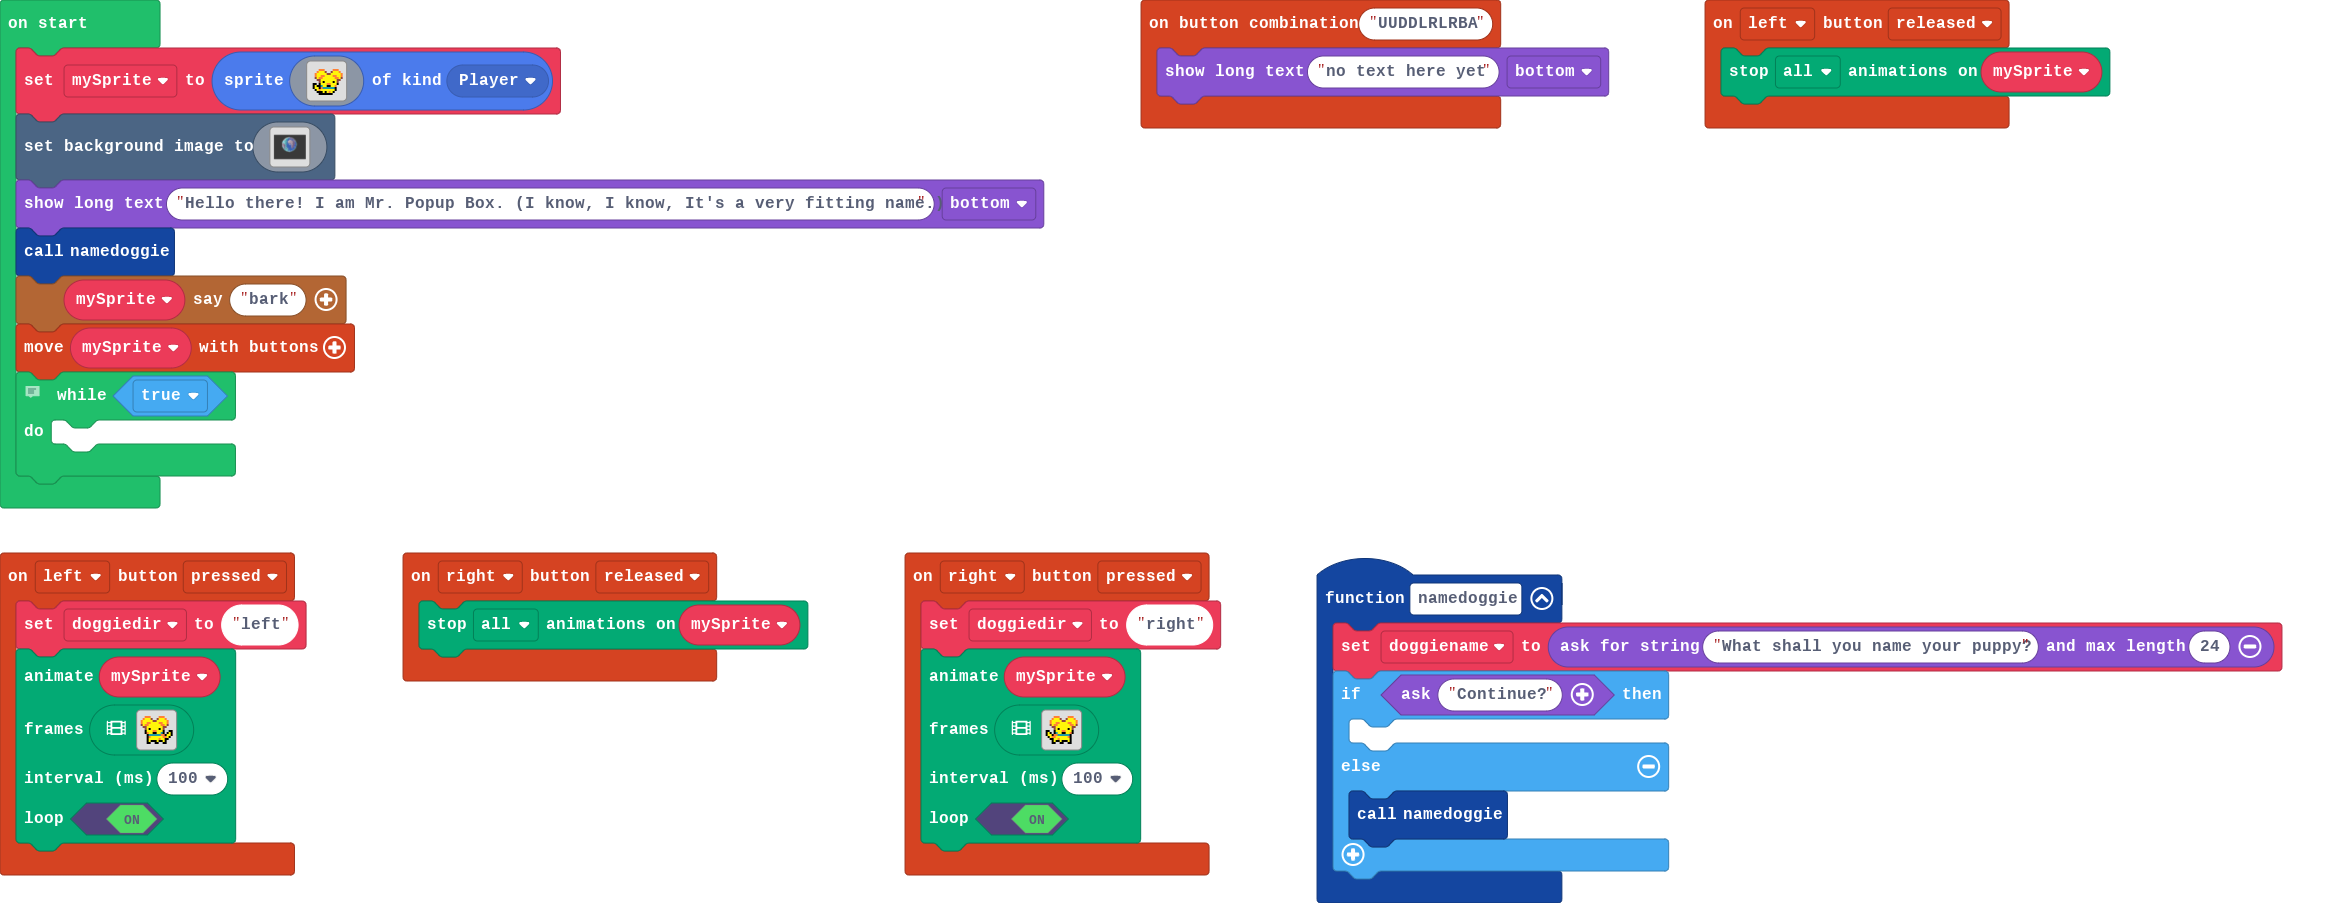
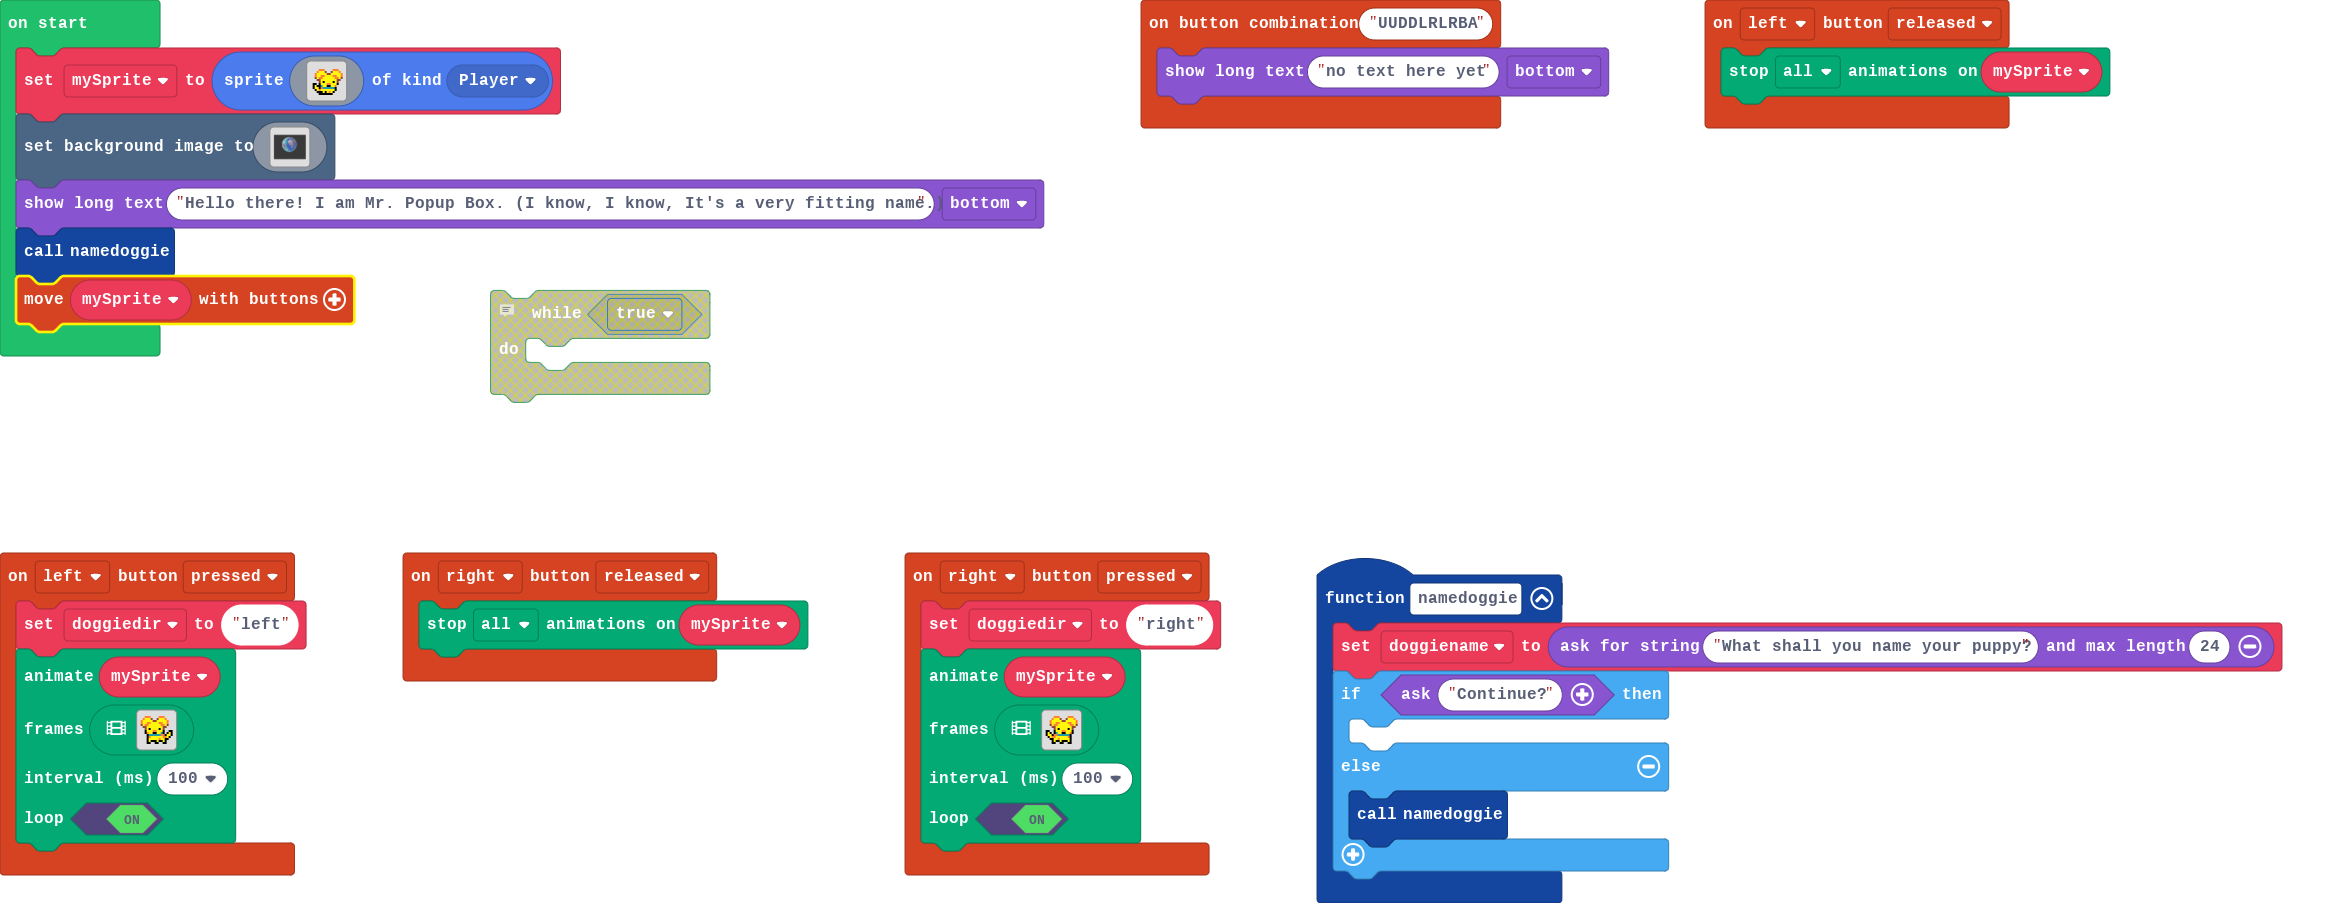
Update main.blocks, main.ts

Changed region(s): [[0.0, 0.2791, 0.1542, 0.5891], [0.1851, 0.3101, 0.3085, 0.4651]]

diff --git a/main.ts b/main.ts
@@ -167,9 +167,4 @@ scene.setBackgroundImage(img`
     `)
 game.showLongText("Hello there! I am Mr. Popup Box. (I know, I know, It's a very fitting name.)", DialogLayout.Bottom)
 namedoggie()
-story.spriteSayText(mySprite, "bark")
 controller.moveSprite(mySprite)
-// triggerable forever loop
-while (true) {
-	
-}
